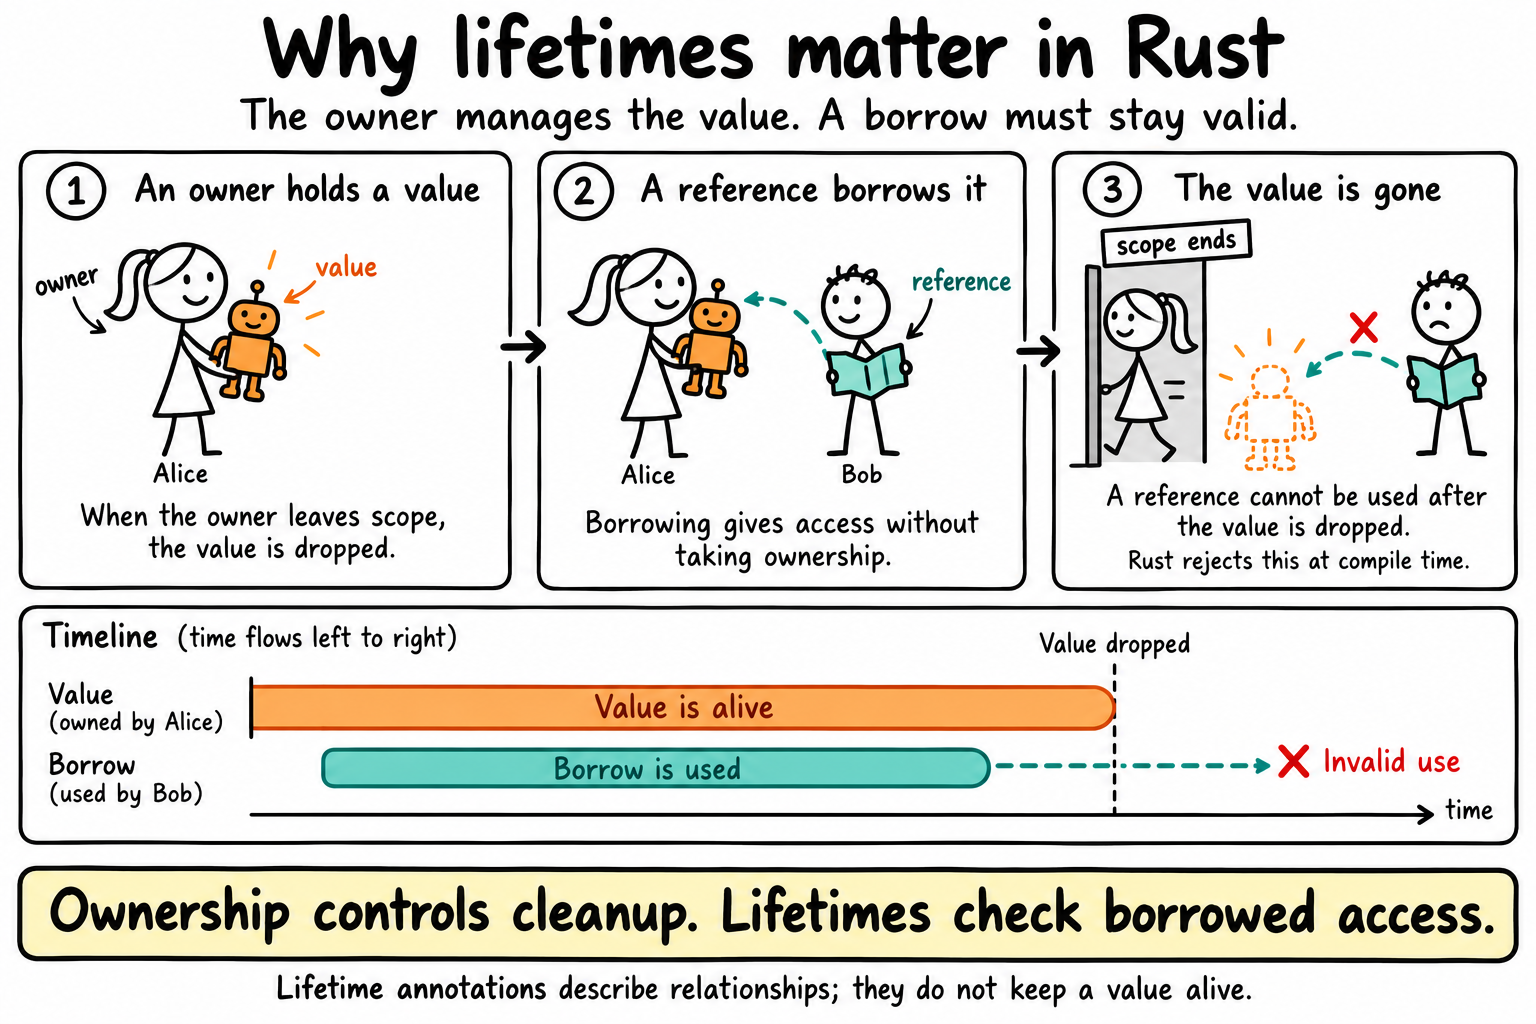
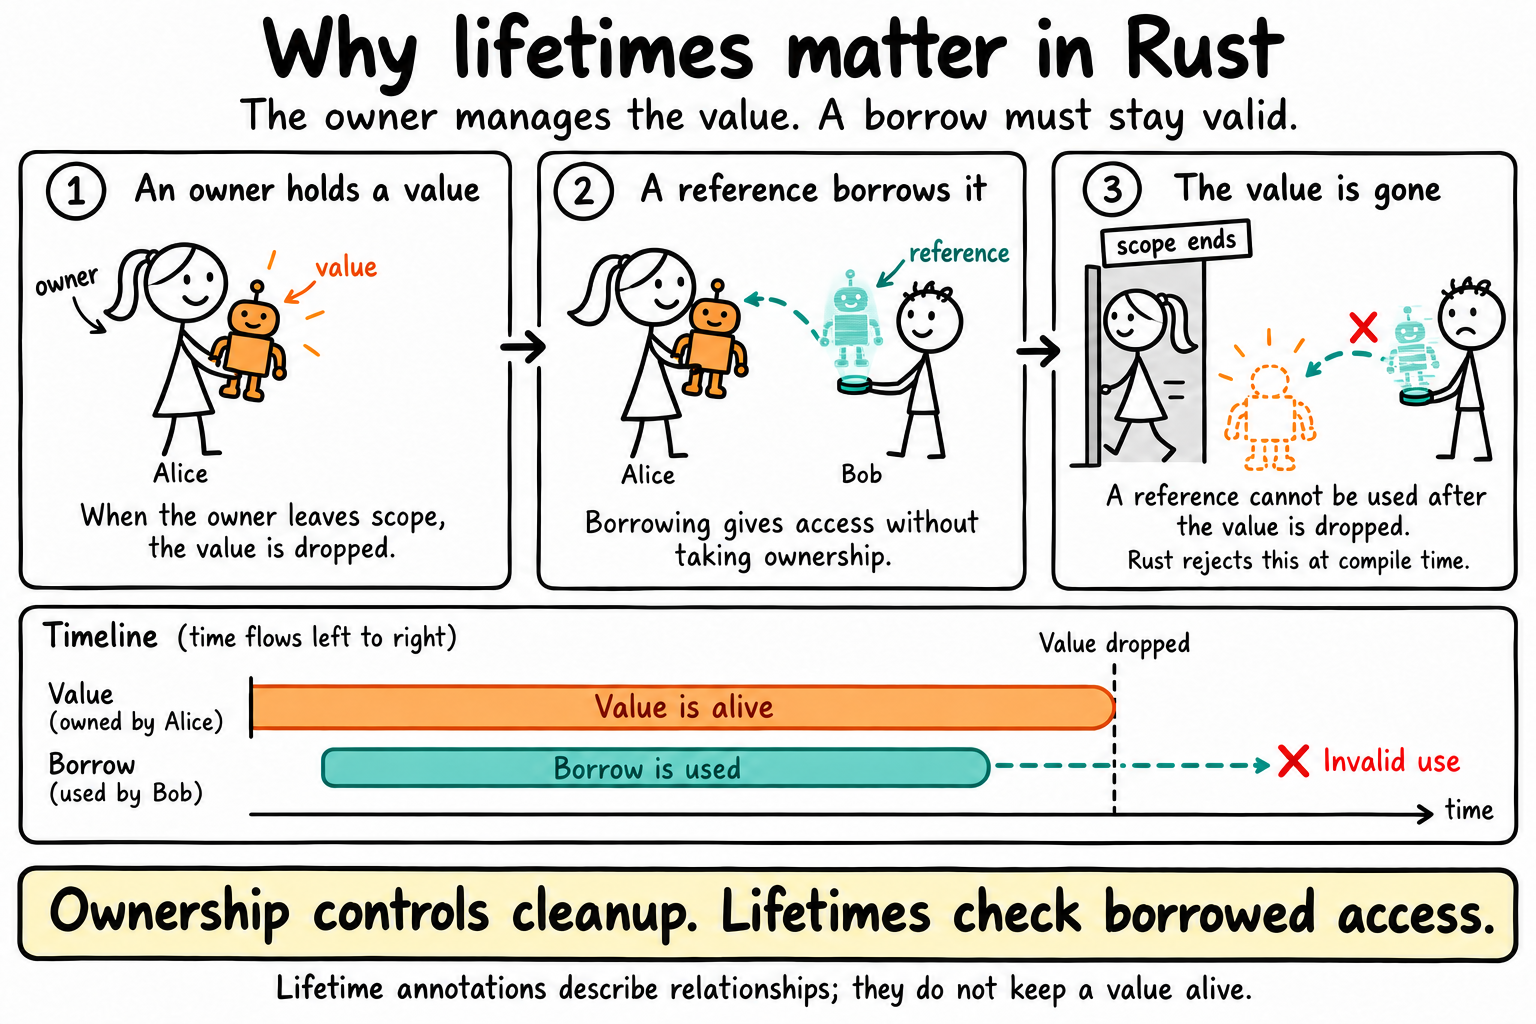
correct unrelated examples

diff --git a/rust-lifetime-example/src/main.rs b/rust-lifetime-example/src/main.rs
@@ -1,5 +1,5 @@
-// Bob doesn't own Alice's toy. He holds a map that points to it.
-// `'a` says: the map can't outlive the toy it points to.
+// Bob doesn't own Alice's toy. He holds a magic hologram of it.
+// `'a` says: the magic hologram can't outlive the toy it shows.
 struct Borrower<'a> {
     toy: &'a str,
 }
@@ -7,10 +7,10 @@ struct Borrower<'a> {
 // The result is one of the two inputs, so it can only live
 // as long as the shorter-lived of the two.
 fn pick_longer<'a>(first: &'a str, second: &'a str) -> &'a str {
-    if first.len() >= second.len() { 
-        first 
-    } else { 
-        second 
+    if first.len() >= second.len() {
+        first
+    } else {
+        second
     }
 }
 
@@ -23,7 +23,7 @@ fn main() {
     // Step 1. Functions: the returned reference can't outlive either input.
     {
         let alice_toy = String::from("Robot");
-        let bob_toy = String::from("Map");
+        let bob_toy = String::from("Magic Hologram");
 
         let longer = pick_longer(&alice_toy, &bob_toy);
         println!("Longer toy name: {longer}");
@@ -35,14 +35,14 @@ fn main() {
     let longer;
 
     {
-        let bob_toy = String::from("Map");
+        let bob_toy = String::from("Magic Hologram");
         longer = pick_longer(&alice_toy, &bob_toy);
     } // Bob's toy is dropped here.
 
     println!("Longer toy name: {longer}");
     */
 
-    // Step 2. Structs: Bob's map is only valid while Alice's toy exists.
+    // Step 2. Structs: Bob's magic hologram is only valid while Alice's toy exists.
     {
         let alice_toy = String::from("Robot");
         let bob = Borrower { toy: &alice_toy };
@@ -50,7 +50,7 @@ fn main() {
         println!("Bob is holding: {}", bob.toy);
     }
 
-    // Uncomment this block: Bob still holds the map after the toy is gone.
+    // Uncomment this block: Bob still holds the magic hologram after the toy is gone.
     /*
     let bob;
 
@@ -63,8 +63,10 @@ fn main() {
     */
 
     // Step 3. Elision: no `'a` needed when the rule is obvious.
-    let bob_toy = String::from("Teddy Bear");
-    let seen = look_at(&bob_toy);
+    {
+        let bob_toy = String::from("Teddy Bear");
+        let seen = look_at(&bob_toy);
 
-    println!("Bob looks at: {seen}");
+        println!("Bob looks at: {seen}");
+    }
 }

diff --git a/rust-lifetime-example/README.md b/rust-lifetime-example/README.md
@@ -4,17 +4,15 @@ A reference can never outlive the thing it points to. Lifetimes are how Rust che
 
 ## The idea
 
-![Why lifetimes matter in Rust: Alice owns a toy robot. Bob holds a map that points to it. Once Alice's scope ends the robot is dropped, so Bob's map points to nothing and can no longer be used.](images/why-lifetimes-matter.png)
+![Why lifetimes matter in Rust: Alice owns a toy robot. Bob holds a magic hologram of it. Once Alice's scope ends the robot is dropped, so Bob's magic hologram shows a toy that no longer exists and can no longer be used.](images/why-lifetimes-matter.png)
 
-Alice owns a Robot. Bob doesn't take it. He holds a **map** that shows where Alice's Robot is. The map is Bob's *reference*: it lets him find the toy without owning it.
+Alice owns a Robot. Bob doesn't take it. He holds a **magic hologram** of Alice's Robot. It's Bob's *reference*: it lets him see the toy without owning it.
 
-A map is only useful while the toy is still there. Once Alice leaves and the Robot is dropped, Bob's map points to nothing. Rust spots this and refuses to compile the code.
-
-You've seen this rule before in other languages as a "dangling pointer" bug. Rust catches it at compile time.
+A magic hologram is only real while the toy is still there. Once Alice leaves and the Robot is dropped, Bob's magic hologram would show a toy that no longer exists. Other languages call this a "dangling pointer" bug. Rust refuses to compile it.
 
 ## The three steps
 
-1. **Functions.** Alice has a Robot and Bob has a Map. Here the Map is just Bob's own toy (in step 2, the map becomes his reference). `pick_longer` looks at both and hands back whichever name is longer:
+1. **Functions.** Alice has a Robot and Bob has a Magic Hologram (here just a toy he owns). `pick_longer` looks at both and hands back whichever name is longer:
 
    ```rust
    fn pick_longer<'a>(first: &'a str, second: &'a str) -> &'a str
@@ -22,7 +20,7 @@ You've seen this rule before in other languages as a "dangling pointer" bug. Rus
 
    The answer could be Alice's toy or Bob's, so it's only safe to use while *both* toys still exist. That's what `'a` says: the result lives no longer than the shorter-lived input.
 
-2. **Structs.** This is the picture above in code. `Borrower` is Bob holding his map, and `toy` is the map pointing at Alice's Robot:
+2. **Structs.** This is the picture above in code. `Borrower` is Bob holding his magic hologram, and `toy` is the magic hologram of Alice's Robot:
 
    ```rust
    struct Borrower<'a> {
@@ -30,7 +28,7 @@ You've seen this rule before in other languages as a "dangling pointer" bug. Rus
    }
    ```
 
-   `'a` ties Bob's map to Alice's toy. Bob can keep the map only while Alice still has the Robot.
+   `'a` ties Bob's magic hologram to Alice's toy. Bob can keep the magic hologram only while Alice still has the Robot.
 
 3. **Elision.** Bob has a Teddy Bear and looks at it. `look_at(toy: &str) -> &str` has no `'a`: there's only one toy coming in, so the result must come from it, and Rust adds the lifetime for you. The function just returns `toy` on purpose, so the signature is the only thing to look at.
 
@@ -43,7 +41,7 @@ cargo run
 Output:
 
 ```
-Longer toy name: Robot
+Longer toy name: Magic Hologram
 Bob is holding: Robot
 Bob looks at: Teddy Bear
 ```
@@ -53,10 +51,11 @@ Bob looks at: Teddy Bear
 1. Uncomment each `/* ... */` block in `main` one at a time and run `cargo run`. Each one fails because a toy is dropped while someone still needs it:
 
    ```
-   `bob_toy` does not live long enough
+   `bob_toy` does not live long enough     (step 1)
+   `alice_toy` does not live long enough   (step 2)
    ```
 
-   In step 1, Bob's Map is dropped before `longer` is used. In step 2, Alice's Robot is dropped while Bob still holds a map to it, so the error names `alice_toy`.
+   In step 1, Bob's Magic Hologram is dropped before `longer` is used. In step 2, Alice's Robot is dropped while Bob still holds a magic hologram of it.
 
 2. Remove `<'a>` and every `'a` from `pick_longer`. The compiler asks for a lifetime:
 
@@ -64,4 +63,4 @@ Bob looks at: Teddy Bear
    missing lifetime specifier
    ```
 
-3. Remove `<'a>` from `struct Borrower`. Same complaint: if Bob holds a map, Rust needs to know how long the toy it points to will be there.
+3. Remove `<'a>` from `struct Borrower`. Same complaint: if Bob holds a magic hologram, Rust needs to know how long the toy it shows will be there.
